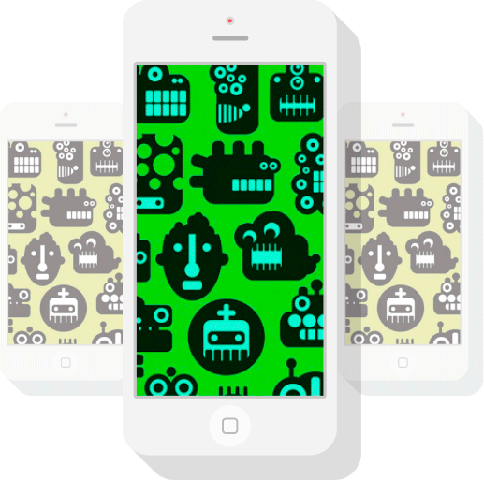
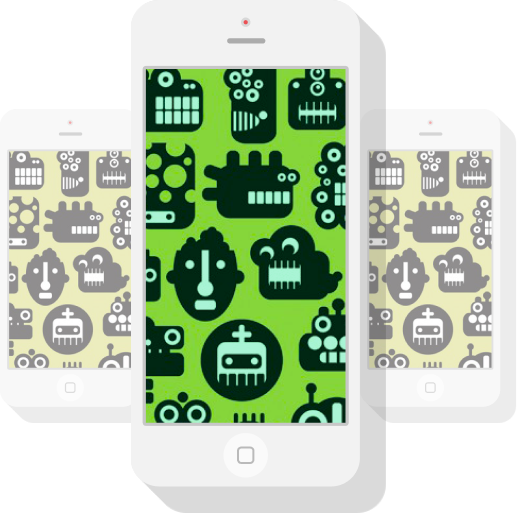
feat: add animation

diff --git a/script.js b/script.js
@@ -34,20 +34,33 @@ const sliderHandler = () => {
     togglePhoneScreen(slider);
 }
 
-const changeSlides = (elem) => {   
+const changeSlides = (elem) => {
     let leftArrow = elem.querySelector('.arrow-left'),
         rightArrow = elem.querySelector('.arrow-right'),
-        firstSlide = elem.querySelector('#slide1'),
-        secondSlide = elem.querySelector('#slide2');
+        slides = elem.querySelectorAll('.slides');
 
-    leftArrow.addEventListener('click', () => {firstSlide.classList.toggle('hidden');
-        secondSlide.classList.toggle('hidden');
-    })
-    
-    rightArrow.addEventListener('click', () => {firstSlide.classList.toggle('hidden');
-        secondSlide.classList.toggle('hidden');
-    })
+    let slideIndex = 1;
+    showSlides(slideIndex);
+
+    const plusSlide = () => { showSlides(slideIndex += 1) };
+
+    const minusSlide = () => { showSlides(slideIndex -= 1) };
+
+    function showSlides(n) {
+
+        if (n > slides.length) slideIndex = 1;
+        if (n < 1) slideIndex = slides.length;
+
+        for (let i = 0; i < slides.length; i++) {
+            slides[i].style.display = "none";
+        }
+        slides[slideIndex - 1].style.display = "block";
+    }
+
+    leftArrow.addEventListener('click', () => { minusSlide() });  
+    rightArrow.addEventListener('click', () => { plusSlide() });
 }
+
 
 const togglePhoneScreen = (elem) => {
     let homeButtonVert = elem.querySelector('.home-button-vert'),

diff --git a/style.css b/style.css
@@ -28,6 +28,7 @@ a {
     height: 483px;
     background-image: url(assets/img/Slide-2.png);
     background-position: center;
+    background-size: contain;
     background-repeat: no-repeat;
 }
 .home-button-vert, .home-button-hor {
@@ -47,7 +48,9 @@ a {
 }
 #popup {
     width: 300px;
+    max-width: 400px;
     height: 250px;
+    max-height: 300px;
     position: fixed;
     z-index: 100;
     left: 50%;
@@ -57,6 +60,7 @@ a {
     transform: translate(-50%, -50%);
     background-color: #f2f2f2;
     box-shadow: 0 0 60px 10px rgba(0, 0, 0, 0.9);
+    overflow: hidden;
 
 }
 
@@ -65,6 +69,9 @@ a {
     font-size: 18px;
     color: #666d89;
     margin: 0 0 10px 0;
+    white-space: nowrap;
+    overflow: hidden;
+    text-overflow: ellipsis;
 }
 #popup button {
     display: block;
@@ -177,6 +184,8 @@ header h1 {
     margin-top: 95px;
 }
 
+
+
 .slider .wrapper {
     width: 940px;
     height: 483px;
@@ -189,6 +198,31 @@ header h1 {
     -ms-flex-align: center;
 }
 
+/* Анимация слайдов */
+.slider .slides {
+    -webkit-animation-name: fade;
+    -webkit-animation-duration: 1.5s;
+    animation-name: fade;
+    animation-duration: 2s;
+}
+@-webkit-keyframes fade {
+    from {
+        opacity: .4
+    }
+    to {
+        opacity: 1
+    }
+}
+@keyframes fade {
+    from {
+        opacity: .4
+    }
+    to {
+        opacity: 1
+    }
+}
+
+/*--------*/
 
 .arrow-left {
     width: 16px;

diff --git a/index.html b/index.html
@@ -34,7 +34,7 @@
                         <img src="assets/img/arrow-left.png" alt="">
                     </div>
 
-                    <div id="slide1" >
+                    <div id="slide1" class="slides" >
 
                             <div class="phone-vertical">
                                 <div class="home-button-vert"></div>
@@ -48,7 +48,7 @@
                             </div>
                     </div>
 
-                    <div id="slide2" class ="hidden">
+                    <div id="slide2" class ="slides">
 
                     </div>
 
